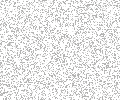
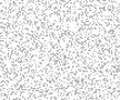
🎨 Refactor background noise.

diff --git a/src/Presentations/Desk.WebUI/wwwroot/css/site.min.css b/src/Presentations/Desk.WebUI/wwwroot/css/site.min.css
@@ -1,1 +1,1 @@
-html{font-size:14px;position:relative;min-height:100%}@media(min-width:768px){html{font-size:16px}}body{min-height:100vh;background-color:var(--body-bg)!important;background-image:var(--bg-noise-url);font-family:Barlow,IRANSans!important}.text-justified{text-align:justify}input:-webkit-autofill{-webkit-box-shadow:none}input:-webkit-autofill:focus{-webkit-box-shadow:none}:root,[data-bs-theme=light]{--bs-blue:#0d6efd;--bs-indigo:#6610f2;--bs-purple:#6f42c1;--bs-pink:#d63384;--bs-red:#dc3545;--bs-orange:#fd7e14;--bs-yellow:#ffc107;--bs-green:#198754;--bs-teal:#20c997;--bs-cyan:#0dcaf0;--bs-black:#000;--bs-white:#fff;--bs-gray:#6c757d;--bs-gray-dark:#343a40;--bs-gray-100:#f8f9fa;--bs-gray-200:#e9ecef;--bs-gray-300:#dee2e6;--bs-gray-400:#ced4da;--bs-gray-500:#adb5bd;--bs-gray-600:#6c757d;--bs-gray-700:#495057;--bs-gray-800:#343a40;--bs-gray-900:#212529;--bs-primary:#aafd0d;--bs-secondary:#6c757d;--bs-success:#198754;--bs-info:#0dcaf0;--bs-warning:#ffc107;--bs-danger:#dc3545;--bs-light:#f8f9fa;--bs-dark:#212529;--bs-primary-rgb:118,170,64;--bs-secondary-rgb:108,117,125;--bs-success-rgb:25,135,84;--bs-info-rgb:13,202,240;--bs-warning-rgb:255,193,7;--bs-danger-rgb:220,53,69;--bs-light-rgb:248,249,250;--bs-dark-rgb:33,37,41;--card-bg:#fff;--bs-primary-text-emphasis:#386505;--bs-secondary-text-emphasis:#2b2f32;--bs-success-text-emphasis:#0a3622;--bs-info-text-emphasis:#055160;--bs-warning-text-emphasis:#664d03;--bs-danger-text-emphasis:#58151c;--bs-light-text-emphasis:#495057;--bs-dark-text-emphasis:#495057;--bs-primary-bg-subtle:#d9f6e4;--bs-secondary-bg-subtle:#e2e3e5;--bs-success-bg-subtle:#d1e7dd;--bs-info-bg-subtle:#cff4fc;--bs-warning-bg-subtle:#fff3cd;--bs-danger-bg-subtle:#f8d7da;--bs-light-bg-subtle:#d8f5e3;--bs-dark-bg-subtle:#ced4da;--bs-primary-border-subtle:#bcfe9e;--bs-secondary-border-subtle:#c4c8cb;--bs-success-border-subtle:#a3cfbb;--bs-info-border-subtle:#9eeaf9;--bs-warning-border-subtle:#ffe69c;--bs-danger-border-subtle:#f1aeb5;--bs-light-border-subtle:#e9ecef;--bs-dark-border-subtle:#adb5bd;--bs-white-rgb:255,255,255;--bs-black-rgb:0,0,0;--bs-font-sans-serif:system-ui,-apple-system,"Segoe UI",Roboto,"Helvetica Neue","Noto Sans","Liberation Sans",Arial,sans-serif,"Apple Color Emoji","Segoe UI Emoji","Segoe UI Symbol","Noto Color Emoji";--bs-font-monospace:SFMono-Regular,Menlo,Monaco,Consolas,"Liberation Mono","Courier New",monospace;--bs-gradient:linear-gradient(180deg,rgba(255,255,255,.15),rgba(255,255,255,0));--bs-body-font-size:1rem;--bs-body-font-weight:400;--bs-body-line-height:1.5;--bs-body-color:#3f444a;--bs-body-color-rgb:33,37,41;--bs-body-bg:#ededed;--bs-body-bg-rgb:255,255,255;--bs-emphasis-color:#000;--bs-emphasis-color-rgb:0,0,0;--bs-secondary-color:rgba(33,37,41,.75);--bs-secondary-color-rgb:33,37,41;--bs-secondary-bg:#e9ecef;--bs-secondary-bg-rgb:233,236,239;--bs-tertiary-color:rgba(33,37,41,.5);--bs-tertiary-color-rgb:33,37,41;--bs-tertiary-bg:#dee9f5;--bs-tertiary-bg-rgb:248,249,250;--bs-link-color:#0d6efd;--bs-link-color-rgb:13,110,253;--bs-link-decoration:underline;--bs-link-hover-color:#0a58ca;--bs-link-hover-color-rgb:10,88,202;--bs-code-color:#d63384;--bs-highlight-bg:#fff3cd;--bs-border-width:1px;--bs-border-style:solid;--bs-border-color:#dee2e6;--bs-border-color-translucent:rgba(0,0,0,.175);--bs-border-radius:.75rem;--bs-border-radius-sm:.75rem;--bs-border-radius-lg:.5rem;--bs-border-radius-xl:1rem;--bs-border-radius-xxl:2rem;--bs-border-radius-2xl:var(--bs-border-radius-xxl);--bs-border-radius-pill:50rem;--bs-box-shadow:0 .5rem 1rem rgba(0,0,0,.15);--bs-box-shadow-sm:0 .125rem .25rem rgba(0,0,0,.075);--bs-box-shadow-lg:0 1rem 3rem rgba(0,0,0,.175);--bs-box-shadow-inset:inset 0 1px 2px rgba(0,0,0,.075);--bs-focus-ring-width:.25rem;--bs-focus-ring-opacity:.25;--bs-focus-ring-color:rgba(13,110,253,.25);--bs-form-valid-color:#198754;--bs-form-valid-border-color:#198754;--bs-form-invalid-color:#dc3545;--bs-form-invalid-border-color:#dc3545;--bs-navbar-brand-padding-y:.25rem;--bs-dropdown-link-active-bg:#69bb0b!important;--bs-dropdown-link-hover-bg:#66c60c!important;--bg-noise-url:url(/assets/images/light-noise.png);--primary-50:#e7fefa;--primary-100:#cbfcd5;--primary-200:#9df9ae;--primary-300:#89f264;--primary-400:#70e635;--primary-500:#84cc16;--primary-600:#65a30d;--primary-700:#4d7c0f;--primary-800:#3f6212;--primary-900:#365314}[data-bs-theme=dark]{color-scheme:dark!important;--bs-body-color:#e7fce7;--bs-body-color-rgb:173,181,189!important;--body-bg:#20272d;--body-bg-rgb:33,37,41!important;--bs-emphasis-color:#fff!important;--bs-emphasis-color-rgb:255,255,255!important;--bs-secondary-color:rgba(173,181,189,.75)!important;--bs-secondary-color-rgb:173,181,189!important;--bs-secondary-bg:#343a40!important;--bs-secondary-bg-rgb:52,58,64!important;--bs-tertiary-color:rgba(173,181,189,.5)!important;--bs-tertiary-color-rgb:173,181,189!important;--bs-tertiary-bg:#2b3035!important;--bs-tertiary-bg-rgb:36,41,53!important;--bs-primary-text-emphasis:#acfe6e!important;--bs-secondary-text-emphasis:#a7acb1!important;--bs-success-text-emphasis:#75b798!important;--bs-info-text-emphasis:#6edff6!important;--bs-warning-text-emphasis:#ffda6a!important;--bs-danger-text-emphasis:#ea868f!important;--bs-light-text-emphasis:#f8f9fa!important;--bs-dark-text-emphasis:#dee2e6!important;--bs-primary-bg-subtle:#031633!important;--bs-secondary-bg-subtle:#161719!important;--bs-success-bg-subtle:#051b11!important;--bs-info-bg-subtle:#032830!important;--bs-warning-bg-subtle:#332701!important;--bs-danger-bg-subtle:#2c0b0e!important;--bs-light-bg-subtle:#343a40!important;--bs-dark-bg-subtle:#1a1d20!important;--bs-primary-border-subtle:#084298!important;--bs-secondary-border-subtle:#41464b!important;--bs-success-border-subtle:#0f5132!important;--bs-info-border-subtle:#087990!important;--bs-warning-border-subtle:#997404!important;--bs-danger-border-subtle:#842029!important;--bs-light-border-subtle:#495057!important;--bs-dark-border-subtle:#343a40!important;--bs-link-color:#6ea8fe!important;--bs-link-hover-color:#8bb9fe!important;--bs-link-color-rgb:110,168,254!important;--bs-link-hover-color-rgb:139,185,254!important;--bs-code-color:#e685b5!important;--bs-border-color:#495057!important;--bs-border-color-translucent:rgba(255,255,255,.15)!important;--bs-form-valid-color:#75b798!important;--bs-form-valid-border-color:#75b798!important;--bs-form-invalid-color:#ea868f!important;--bs-form-invalid-border-color:#ea868f!important;--bg-noise-url:url(/assets/images/dark-noise.jpg);--bs-dropdown-link-active-bg:#66c60c!important;--bs-dropdown-link-hover-color:var(--bs-body-color);--card-bg:#242935}.central{display:flex;flex-direction:column;justify-content:center}ul{list-style:none}.smaller{font-size:.754em}.smallest{font-size:.652em}.bg-noise{background-image:var(--bg-noise-url);background-repeat:repeat}.card{background-color:var(--card-bg)!important}.btn{--bs-btn-padding-y:.45rem}.btn-primary{--bs-btn-bg:#7cc015;--bs-btn-hover-bg:#90cf30;--bs-btn-hover-border-color:#9ae32a;--bs-btn-active-bg:#74ab21;--bs-btn-disabled-bg:#808972;--bs-btn-border-color:none;border:0}.btn-outline-primary{--bs-btn-color:var(--primary-600);--bs-btn-border-color:var(--primary-600);--bs-btn-hover-color:#fff;--bs-btn-hover-bg:#7cc015;--bs-btn-hover-border-color:#5f9807;--bs-btn-focus-shadow-rgb:13,110,253;--bs-btn-active-color:#fff;--btn-active-bg:#6ab60c;--btn-active-border-color:#5bd80d;--bs-btn-active-shadow:inset 0 3px 5px rgba(0,0,0,.125);--bs-btn-disabled-color:#99c071;--bs-btn-disabled-bg:transparent;--bs-btn-disabled-border-color:#8dbc60;--bs-gradient:none}.btn.disabled,.btn:disabled,fieldset:disabled .btn{color:var(--bs-btn-disabled-color);pointer-events:none;background-color:var(--bs-btn-disabled-bg);border-color:var(--bs-btn-disabled-border-color);opacity:var(--bs-btn-disabled-opacity)}.btn-close:focus{box-shadow:none!important;opacity:var(--bs-btn-close-focus-opacity)}.card{border:0;box-shadow:2px 8px 8px #333b4316}.text-green{color:var(--primary-500)}.modal{backdrop-filter:blur(3px)}.dropdown-menu{--bs-dropdown-link-active-color:#fff;--bs-dropdown-link-active-bg:#0d6efd;--bs-dropdown-link-disabled-color:var(--tertiary-color)}.dropdown-item.active,.dropdown-item:active{color:var(--bs-dropdown-link-active-color);text-decoration:none;background-color:var(--bs-dropdown-link-active-bg)}.btn-check:checked+.btn,.btn.active,.btn.show,.btn:first-child:active,:not(.btn-check)+.btn:active{color:var(--bs-btn-active-color);background-color:var(--btn-active-bg);border-color:var(--btn-active-border-color)}
+html{font-size:14px;position:relative;min-height:100%}@media(min-width:768px){html{font-size:16px}}body{min-height:100vh;background-color:var(--body-bg)!important;background-image:var(--bg-noise-url);font-family:Barlow,IRANSans!important}.text-justified{text-align:justify}input:-webkit-autofill{-webkit-box-shadow:none}input:-webkit-autofill:focus{-webkit-box-shadow:none}:root,[data-bs-theme=light]{--bs-blue:#0d6efd;--bs-indigo:#6610f2;--bs-purple:#6f42c1;--bs-pink:#d63384;--bs-red:#dc3545;--bs-orange:#fd7e14;--bs-yellow:#ffc107;--bs-green:#198754;--bs-teal:#20c997;--bs-cyan:#0dcaf0;--bs-black:#000;--bs-white:#fff;--bs-gray:#6c757d;--bs-gray-dark:#343a40;--bs-gray-100:#f8f9fa;--bs-gray-200:#e9ecef;--bs-gray-300:#dee2e6;--bs-gray-400:#ced4da;--bs-gray-500:#adb5bd;--bs-gray-600:#6c757d;--bs-gray-700:#495057;--bs-gray-800:#343a40;--bs-gray-900:#212529;--bs-primary:#aafd0d;--bs-secondary:#6c757d;--bs-success:#198754;--bs-info:#0dcaf0;--bs-warning:#ffc107;--bs-danger:#dc3545;--bs-light:#f8f9fa;--bs-dark:#212529;--bs-primary-rgb:118,170,64;--bs-secondary-rgb:108,117,125;--bs-success-rgb:25,135,84;--bs-info-rgb:13,202,240;--bs-warning-rgb:255,193,7;--bs-danger-rgb:220,53,69;--bs-light-rgb:248,249,250;--bs-dark-rgb:33,37,41;--card-bg:#fff;--bs-primary-text-emphasis:#386505;--bs-secondary-text-emphasis:#2b2f32;--bs-success-text-emphasis:#0a3622;--bs-info-text-emphasis:#055160;--bs-warning-text-emphasis:#664d03;--bs-danger-text-emphasis:#58151c;--bs-light-text-emphasis:#495057;--bs-dark-text-emphasis:#495057;--bs-primary-bg-subtle:#d9f6e4;--bs-secondary-bg-subtle:#e2e3e5;--bs-success-bg-subtle:#d1e7dd;--bs-info-bg-subtle:#cff4fc;--bs-warning-bg-subtle:#fff3cd;--bs-danger-bg-subtle:#f8d7da;--bs-light-bg-subtle:#d8f5e3;--bs-dark-bg-subtle:#ced4da;--bs-primary-border-subtle:#bcfe9e;--bs-secondary-border-subtle:#c4c8cb;--bs-success-border-subtle:#a3cfbb;--bs-info-border-subtle:#9eeaf9;--bs-warning-border-subtle:#ffe69c;--bs-danger-border-subtle:#f1aeb5;--bs-light-border-subtle:#e9ecef;--bs-dark-border-subtle:#adb5bd;--bs-white-rgb:255,255,255;--bs-black-rgb:0,0,0;--bs-font-sans-serif:system-ui,-apple-system,"Segoe UI",Roboto,"Helvetica Neue","Noto Sans","Liberation Sans",Arial,sans-serif,"Apple Color Emoji","Segoe UI Emoji","Segoe UI Symbol","Noto Color Emoji";--bs-font-monospace:SFMono-Regular,Menlo,Monaco,Consolas,"Liberation Mono","Courier New",monospace;--bs-gradient:linear-gradient(180deg,rgba(255,255,255,.15),rgba(255,255,255,0));--bs-body-font-size:1rem;--bs-body-font-weight:400;--bs-body-line-height:1.5;--bs-body-color:#3f444a;--bs-body-color-rgb:33,37,41;--bs-body-bg:#ededed;--bs-body-bg-rgb:255,255,255;--bs-emphasis-color:#000;--bs-emphasis-color-rgb:0,0,0;--bs-secondary-color:rgba(33,37,41,.75);--bs-secondary-color-rgb:33,37,41;--bs-secondary-bg:#e9ecef;--bs-secondary-bg-rgb:233,236,239;--bs-tertiary-color:rgba(33,37,41,.5);--bs-tertiary-color-rgb:33,37,41;--bs-tertiary-bg:#dee9f5;--bs-tertiary-bg-rgb:248,249,250;--bs-link-color:#0d6efd;--bs-link-color-rgb:13,110,253;--bs-link-decoration:underline;--bs-link-hover-color:#0a58ca;--bs-link-hover-color-rgb:10,88,202;--bs-code-color:#d63384;--bs-highlight-bg:#fff3cd;--bs-border-width:1px;--bs-border-style:solid;--bs-border-color:#dee2e6;--bs-border-color-translucent:rgba(0,0,0,.175);--bs-border-radius:.75rem;--bs-border-radius-sm:.75rem;--bs-border-radius-lg:.5rem;--bs-border-radius-xl:1rem;--bs-border-radius-xxl:2rem;--bs-border-radius-2xl:var(--bs-border-radius-xxl);--bs-border-radius-pill:50rem;--bs-box-shadow:0 .5rem 1rem rgba(0,0,0,.15);--bs-box-shadow-sm:0 .125rem .25rem rgba(0,0,0,.075);--bs-box-shadow-lg:0 1rem 3rem rgba(0,0,0,.175);--bs-box-shadow-inset:inset 0 1px 2px rgba(0,0,0,.075);--bs-focus-ring-width:.25rem;--bs-focus-ring-opacity:.25;--bs-focus-ring-color:rgba(13,110,253,.25);--bs-form-valid-color:#198754;--bs-form-valid-border-color:#198754;--bs-form-invalid-color:#dc3545;--bs-form-invalid-border-color:#dc3545;--bs-navbar-brand-padding-y:.25rem;--bs-dropdown-link-active-bg:#69bb0b!important;--bs-dropdown-link-hover-bg:#66c60c!important;--bg-noise-url:url(/assets/images/light-noise.png);--primary-50:#e7fefa;--primary-100:#cbfcd5;--primary-200:#9df9ae;--primary-300:#89f264;--primary-400:#70e635;--primary-500:#84cc16;--primary-600:#65a30d;--primary-700:#4d7c0f;--primary-800:#3f6212;--primary-900:#365314}[data-bs-theme=dark]{color-scheme:dark!important;--bs-body-color:#e7fce7;--bs-body-color-rgb:173,181,189!important;--body-bg:#20272d;--body-bg-rgb:33,37,41!important;--bs-emphasis-color:#fff!important;--bs-emphasis-color-rgb:255,255,255!important;--bs-secondary-color:rgba(173,181,189,.75)!important;--bs-secondary-color-rgb:173,181,189!important;--bs-secondary-bg:#343a40!important;--bs-secondary-bg-rgb:52,58,64!important;--bs-tertiary-color:rgba(173,181,189,.5)!important;--bs-tertiary-color-rgb:173,181,189!important;--bs-tertiary-bg:#2b3035!important;--bs-tertiary-bg-rgb:36,41,53!important;--bs-primary-text-emphasis:#acfe6e!important;--bs-secondary-text-emphasis:#a7acb1!important;--bs-success-text-emphasis:#75b798!important;--bs-info-text-emphasis:#6edff6!important;--bs-warning-text-emphasis:#ffda6a!important;--bs-danger-text-emphasis:#ea868f!important;--bs-light-text-emphasis:#f8f9fa!important;--bs-dark-text-emphasis:#dee2e6!important;--bs-primary-bg-subtle:#031633!important;--bs-secondary-bg-subtle:#161719!important;--bs-success-bg-subtle:#051b11!important;--bs-info-bg-subtle:#032830!important;--bs-warning-bg-subtle:#332701!important;--bs-danger-bg-subtle:#2c0b0e!important;--bs-light-bg-subtle:#343a40!important;--bs-dark-bg-subtle:#1a1d20!important;--bs-primary-border-subtle:#084298!important;--bs-secondary-border-subtle:#41464b!important;--bs-success-border-subtle:#0f5132!important;--bs-info-border-subtle:#087990!important;--bs-warning-border-subtle:#997404!important;--bs-danger-border-subtle:#842029!important;--bs-light-border-subtle:#495057!important;--bs-dark-border-subtle:#343a40!important;--bs-link-color:#6ea8fe!important;--bs-link-hover-color:#8bb9fe!important;--bs-link-color-rgb:110,168,254!important;--bs-link-hover-color-rgb:139,185,254!important;--bs-code-color:#e685b5!important;--bs-border-color:#495057!important;--bs-border-color-translucent:rgba(255,255,255,.15)!important;--bs-form-valid-color:#75b798!important;--bs-form-valid-border-color:#75b798!important;--bs-form-invalid-color:#ea868f!important;--bs-form-invalid-border-color:#ea868f!important;--bg-noise-url:url(/assets/images/dark-noise.png);--bs-dropdown-link-active-bg:#66c60c!important;--bs-dropdown-link-hover-color:var(--bs-body-color);--card-bg:#242935}.central{display:flex;flex-direction:column;justify-content:center}ul{list-style:none}.smaller{font-size:.754em}.smallest{font-size:.652em}.bg-noise{background-image:var(--bg-noise-url);background-repeat:repeat}.card{background-color:var(--card-bg)!important}.btn{--bs-btn-padding-y:.45rem}.btn-primary{--bs-btn-bg:#7cc015;--bs-btn-hover-bg:#90cf30;--bs-btn-hover-border-color:#9ae32a;--bs-btn-active-bg:#74ab21;--bs-btn-disabled-bg:#808972;--bs-btn-border-color:none;border:0}.btn-outline-primary{--bs-btn-color:var(--primary-600);--bs-btn-border-color:var(--primary-600);--bs-btn-hover-color:#fff;--bs-btn-hover-bg:#7cc015;--bs-btn-hover-border-color:#5f9807;--bs-btn-focus-shadow-rgb:13,110,253;--bs-btn-active-color:#fff;--btn-active-bg:#6ab60c;--btn-active-border-color:#5bd80d;--bs-btn-active-shadow:inset 0 3px 5px rgba(0,0,0,.125);--bs-btn-disabled-color:#99c071;--bs-btn-disabled-bg:transparent;--bs-btn-disabled-border-color:#8dbc60;--bs-gradient:none}.btn.disabled,.btn:disabled,fieldset:disabled .btn{color:var(--bs-btn-disabled-color);pointer-events:none;background-color:var(--bs-btn-disabled-bg);border-color:var(--bs-btn-disabled-border-color);opacity:var(--bs-btn-disabled-opacity)}.btn-close:focus{box-shadow:none!important;opacity:var(--bs-btn-close-focus-opacity)}.card{border:0;box-shadow:2px 8px 8px #333b4316}.text-green{color:var(--primary-500)}.modal{backdrop-filter:blur(3px)}.dropdown-menu{--bs-dropdown-link-active-color:#fff;--bs-dropdown-link-active-bg:#0d6efd;--bs-dropdown-link-disabled-color:var(--tertiary-color)}.dropdown-item.active,.dropdown-item:active{color:var(--bs-dropdown-link-active-color);text-decoration:none;background-color:var(--bs-dropdown-link-active-bg)}.btn-check:checked+.btn,.btn.active,.btn.show,.btn:first-child:active,:not(.btn-check)+.btn:active{color:var(--bs-btn-active-color);background-color:var(--btn-active-bg);border-color:var(--btn-active-border-color)}

diff --git a/src/Presentations/Desk.WebUI/wwwroot/css/site.css b/src/Presentations/Desk.WebUI/wwwroot/css/site.css
@@ -212,7 +212,7 @@ input:-webkit-autofill {
     --bs-form-valid-border-color: #75b798 !important;
     --bs-form-invalid-color: #ea868f !important;
     --bs-form-invalid-border-color: #ea868f !important;
-    --bg-noise-url: url(/assets/images/dark-noise.jpg);
+    --bg-noise-url: url(/assets/images/dark-noise.png);
     --bs-dropdown-link-active-bg: #66c60c !important;
     --bs-dropdown-link-hover-color: var(--bs-body-color);
     --card-bg: #242935;
